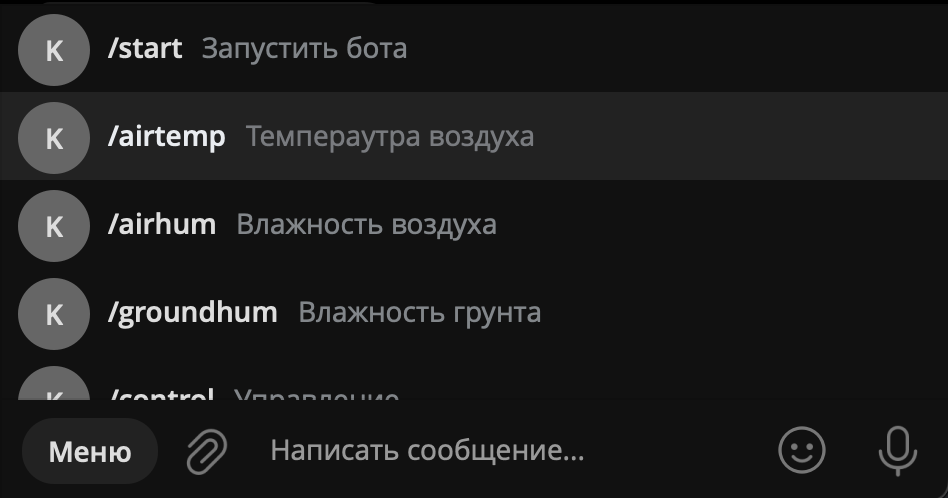
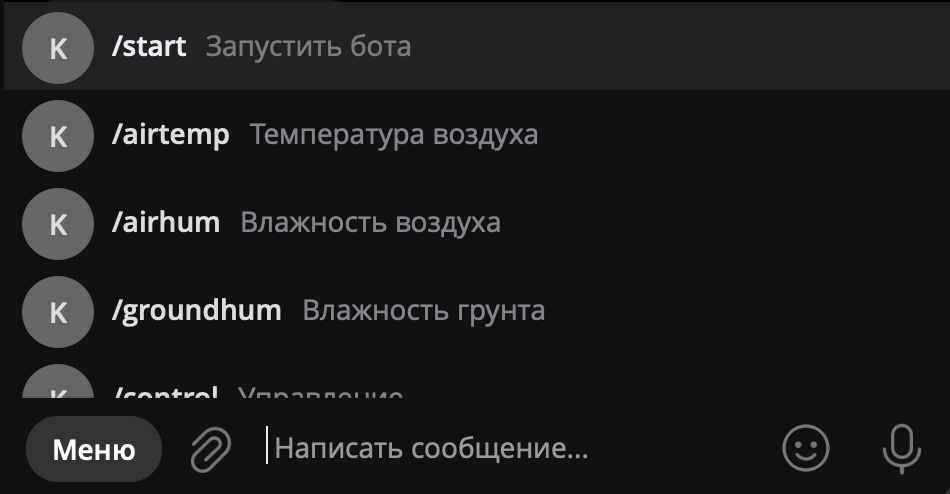
add docks files

diff --git a/tg_bot/utils/set_bot_commands.py b/tg_bot/utils/set_bot_commands.py
@@ -9,14 +9,14 @@ async def set_commands(dp: Dispatcher, chat_id: str):
         commands=
         [
             types.BotCommand("start", "Запустить бота"),
-            types.BotCommand("airtemp", "Темпераутра воздуха"),
+            types.BotCommand("airtemp", "Температура воздуха"),
             types.BotCommand("airhum", "Влажность воздуха"),
             types.BotCommand("groundhum", "Влажность грунта"),
             types.BotCommand("help", "Вывести справку"),
         ] if chat_id not in ADMINS else
         [
             types.BotCommand("start", "Запустить бота"),
-            types.BotCommand("airtemp", "Темпераутра воздуха"),
+            types.BotCommand("airtemp", "Температура воздуха"),
             types.BotCommand("airhum", "Влажность воздуха"),
             types.BotCommand("groundhum", "Влажность грунта"),
             types.BotCommand("control", "Управление"),

diff --git a/tg_bot/handlers/private_chats/commands/air_temp.py b/tg_bot/handlers/private_chats/commands/air_temp.py
@@ -26,7 +26,7 @@ async def add_item_to_temp_plot(call: CallbackQuery, callback_data: dict):
     await call.answer(cache_time=1)
     action = callback_data.get('action').split('_')[0]
     sensor_id = int(callback_data.get('action').split('_')[1])
-    global hum_sensor_list
+    global temp_sensor_list
     temp_sensor_list.add(sensor_id) if action == 'add' else temp_sensor_list.remove(sensor_id)
     await dp.bot.edit_message_reply_markup(
         reply_markup=get_air_temp_hum_keyboard(param='temp', sensor_list=temp_sensor_list),
@@ -37,7 +37,7 @@ async def add_item_to_temp_plot(call: CallbackQuery, callback_data: dict):
 
 @dp.callback_query_handler(choose_sensor_callback_data.filter(param='complete_temp'))
 async def send_info(call: CallbackQuery):
-    global hum_sensor_list
+    global tempsensor_list
     sensor_values = TempHumValues.select().order_by(TempHumValues.id.desc()).limit(10)
     message_text = list()
     for sensor_num in temp_sensor_list:

diff --git a/docs/bot_description.md b/docs/bot_description.md
@@ -33,11 +33,140 @@
 - [```/set_params```](#setparams) - Изменить границы интервалов нормальных значений параметров с джатчиков в теплице.
 - [```/help```](#help) - Вывести справку.
 
+Список функций, доступных пользователю, формируется в момент первого обращения пользователя к боту. Код, описывающий процесс добавления команд приведен в файле [set_bot_command](../tg_bot/utils/set_bot_commands.py):
+
+```python
+async def set_commands(dp: Dispatcher, chat_id: str):
+    await dp.bot.set_my_commands(
+        commands=
+        [
+            types.BotCommand("start", "Запустить бота"),
+            types.BotCommand("airtemp", "Температура воздуха"),
+            types.BotCommand("airhum", "Влажность воздуха"),
+            types.BotCommand("groundhum", "Влажность грунта"),
+            types.BotCommand("help", "Вывести справку"),
+        ] if chat_id not in ADMINS else
+        [
+            types.BotCommand("start", "Запустить бота"),
+            types.BotCommand("airtemp", "Температура воздуха"),
+            types.BotCommand("airhum", "Влажность воздуха"),
+            types.BotCommand("groundhum", "Влажность грунта"),
+            types.BotCommand("control", "Управление"),
+            types.BotCommand("force_control", "Принудительное управление"),
+            types.BotCommand('add_values', "Добавить показания датчиков"),
+            types.BotCommand('set_params', "Изменить параметры"),
+            types.BotCommand("help", "Вывести справку"),
+        ],
+        scope=BotCommandScopeChat(
+            chat_id=chat_id
+        )
+    )
+```
+
 ### /airtemp
+
+После выбора данной команды бот предлагает выбрать с каких датчиков пользователь хочет получить информацию. Также бот сразу предлагает выбрать среднее значение со всех датчиков.
+
+```python
+temp_sensor_list = set()
+
+
+@dp.message_handler(CommandAirTemp(), chat_type='private')
+async def air_temp_request(message: types.Message):
+    await dp.bot.delete_message(chat_id=message.chat.id,
+                                message_id=message.message_id)
+    global temp_sensor_list
+    temp_sensor_list.clear()
+    await message.answer(text='Выберите, информацию с каких датчиков температуры Вы хотите получить',
+                         reply_markup=get_air_temp_hum_keyboard(param='temp', sensor_list=temp_sensor_list))
+
+
+@dp.callback_query_handler(choose_sensor_callback_data.filter(param='temp'))
+async def add_item_to_temp_plot(call: CallbackQuery, callback_data: dict):
+    await call.answer(cache_time=1)
+    action = callback_data.get('action').split('_')[0]
+    sensor_id = int(callback_data.get('action').split('_')[1])
+    global temp_sensor_list
+    temp_sensor_list.add(sensor_id) if action == 'add' else temp_sensor_list.remove(sensor_id)
+    await dp.bot.edit_message_reply_markup(
+        reply_markup=get_air_temp_hum_keyboard(param='temp', sensor_list=temp_sensor_list),
+        chat_id=call.message.chat.id,
+        message_id=call.message.message_id
+    )
+```
+
+Более подробно ознакомиться с кодом получения показаний с датчиков температуры воздуха можно в файле [air_temp.py](../tg_bot/handlers/private_chats/commands/air_temp.py).
 
 ### /airhum
 
+Аналогичным образом после выбора данной команды бот предлагает выбрать с каких датчиков пользователь хочет получить информацию. Также бот сразу предлагает выбрать среднее значение со всех датчиков.
+
+```python
+hum_sensor_list = set()
+
+
+@dp.message_handler(CommandAirHum(), chat_type='private')
+async def air_hum_request(message: types.Message):
+    await dp.bot.delete_message(chat_id=message.chat.id,
+                                message_id=message.message_id)
+    global hum_sensor_list
+    hum_sensor_list.clear()
+    await message.answer(text='Выберите, информацию с каких датчиков влажности Вы хотите получить',
+                         reply_markup=get_air_temp_hum_keyboard(param='hum', sensor_list=hum_sensor_list))
+
+
+@dp.callback_query_handler(choose_sensor_callback_data.filter(param='hum'))
+async def add_item_to_air_hum_list(call: CallbackQuery, callback_data: dict):
+    await call.answer(cache_time=1)
+    action = callback_data.get('action').split('_')[0]
+    sensor_id = int(callback_data.get('action').split('_')[1])
+    global hum_sensor_list
+    hum_sensor_list.add(sensor_id) if action == 'add' else hum_sensor_list.remove(sensor_id)
+    await dp.bot.edit_message_reply_markup(
+        reply_markup=get_air_temp_hum_keyboard(param='hum', sensor_list=hum_sensor_list),
+        chat_id=call.message.chat.id,
+        message_id=call.message.message_id
+    )
+
+```
+
+Более подробно ознакомиться с кодом получения показаний с датчиков влажности воздуха можно в файле [air_hum.py](../tg_bot/handlers/private_chats/commands/air_hum.py).
+
 ### /groundhum
+
+Аналогичным образом после выбора данной команды бот предлагает выбрать с каких датчиков пользователь хочет получить информацию. Также бот сразу предлагает выбрать среднее значение со всех датчиков.
+
+```python
+ground_sensor_list = set()
+
+
+@dp.message_handler(CommandGroundHum(), chat_type='private')
+async def ground_hum_request(message: types.Message):
+    await dp.bot.delete_message(chat_id=message.chat.id,
+                                message_id=message.message_id)
+    global ground_sensor_list
+    ground_sensor_list.clear()
+    await message.answer(text='Выберите, информацию с каких датчиков влажности почвы Вы хотите получить',
+                         reply_markup=get_ground_hum_keyboard(param='ground', sensor_list=ground_sensor_list))
+
+
+@dp.callback_query_handler(choose_sensor_callback_data.filter(param='ground'))
+async def add_item_ground_hum_list(call: CallbackQuery, callback_data: dict):
+    await call.answer(cache_time=1)
+    action = callback_data.get('action').split('_')[0]
+    sensor_id = int(callback_data.get('action').split('_')[1])
+    global ground_sensor_list
+    ground_sensor_list.add(sensor_id) if action == 'add' else ground_sensor_list.remove(sensor_id)
+    await dp.bot.edit_message_reply_markup(
+        reply_markup=get_ground_hum_keyboard(param='ground', sensor_list=ground_sensor_list),
+        chat_id=call.message.chat.id,
+        message_id=call.message.message_id
+    )
+
+```
+
+Более подробно ознакомиться с кодом получения показаний с датчиков влажности почвы можно в файле [ground_hum.py](../tg_bot/handlers/private_chats/commands/ground_hum.py).
+
 
 ### /control
 

diff --git a/README.md b/README.md
@@ -19,11 +19,11 @@
 ### Содержание
 1. [Техническое задание](https://docs.google.com/document/d/1yNu_mfNUTXRuimC1jlhbPLuVora4HbI8)
 2. [Процесс запуска](./docs/start_bot.md)
-3. [Описание решения команды](./docs/bot_description.md)
-4. [Выбор и описание используемых инструментов](./docs/libraries.md)
-5. [Работа с API умной теплицы](./docs/farm_api_description.md)
-6. [Unit-тестирование](./docs/unittests.md)
-7. [Схема базы данных](./docs/db_scheme.md)
+3. [Выбор и описание используемых инструментов](./docs/libraries.md)
+4. [Описание решения команды](./docs/bot_description.md)
+5. [Схема базы данных](./docs/db_scheme.md)
+6. [Работа с API умной теплицы](./docs/farm_api_description.md)
+7. [Unit-тестирование](./docs/unittests.md)
 8. [Примеры работы бота](./docs/examples.md)
 9. [Список источников](./docs/sources_list.md)
 ---

diff --git a/docs/libraries.md b/docs/libraries.md
@@ -18,13 +18,10 @@
 ### Описание библиотеки [peewee](https://docs.peewee-orm.com/en/latest/)
 
 
-
 ### Описание библиотеки [matplotlib](https://matplotlib.org/)
 
 
-
 ### Описание библиотеки [requests](https://requests.readthedocs.io/en/latest/)
-
 
 
 ### Описание библиотеки [unittest](https://docs.python.org/3/library/unittest.html)
